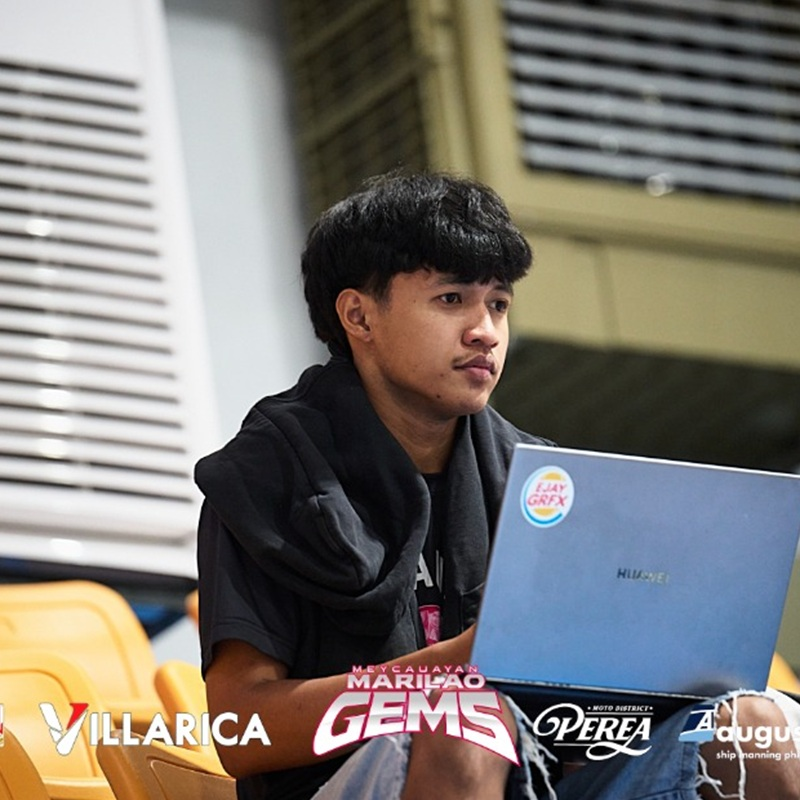
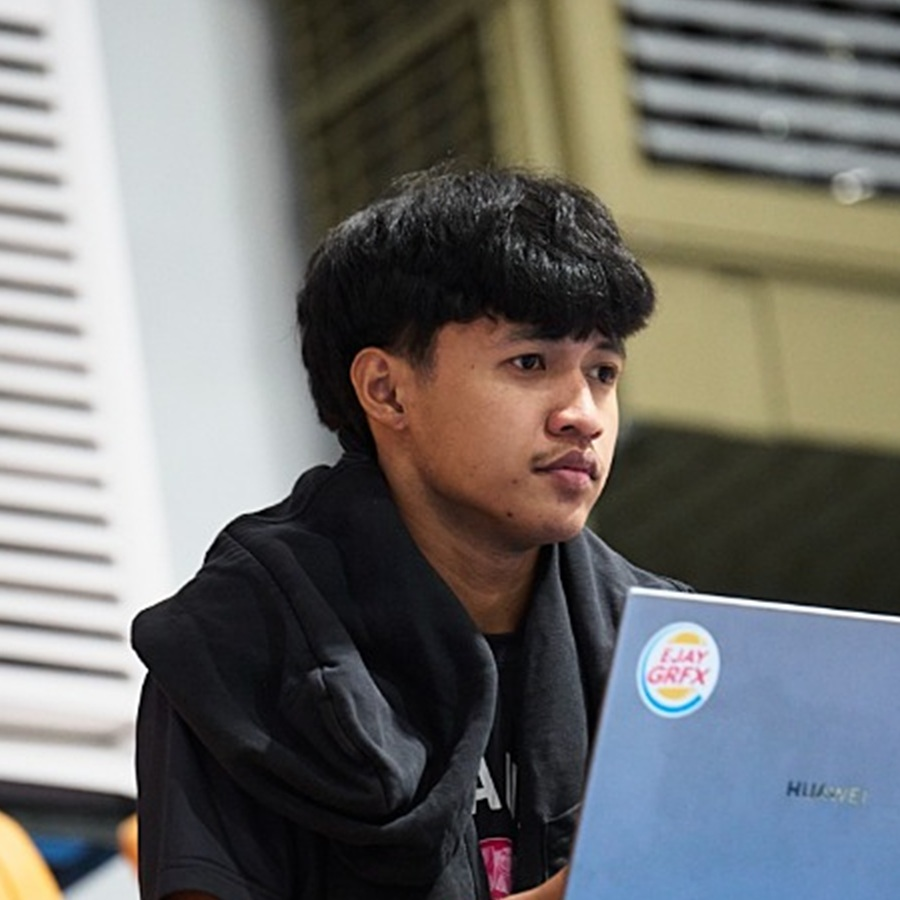
Add vertical timeline line in experience, update role to Graphic Designer / Social Media Manager, and scale profile picture

diff --git a/style.css b/style.css
@@ -377,37 +377,79 @@ button {
 
 
 /* =========================================================
-   EXPERIENCE
+   EXPERIENCE (VERTICAL TIMELINE)
 ========================================================= */
 
 .experience-list {
-    border-top: 1px solid var(--border);
+    position: relative;
+    padding-top: 15px;
 }
 
 .experience-item {
     display: grid;
-    grid-template-columns: 220px 1fr;
+    grid-template-columns: 200px 50px 1fr;
+    position: relative;
+    padding-bottom: 60px;
+}
 
-    padding: 45px 0;
-
-    border-bottom: 1px solid var(--border);
+.experience-item:last-child {
+    padding-bottom: 20px;
 }
 
 .experience-date {
     color: var(--green);
     font-size: 11px;
     font-weight: 800;
-    letter-spacing: 1px;
+    letter-spacing: 2px;
+    padding-top: 10px;
+}
+
+.experience-timeline {
+    position: relative;
+    display: flex;
+    flex-direction: column;
+    align-items: center;
+}
+
+.timeline-dot {
+    width: 12px;
+    height: 12px;
+    border-radius: 50%;
+    background: var(--green);
+    box-shadow: 0 0 12px var(--green), 0 0 25px rgba(183, 255, 0, 0.4);
+    margin-top: 12px;
+    flex-shrink: 0;
+    z-index: 2;
+    transition: transform 0.3s cubic-bezier(0.34, 1.56, 0.64, 1), box-shadow 0.3s;
+}
+
+.experience-item:hover .timeline-dot {
+    transform: scale(1.35);
+    box-shadow: 0 0 18px var(--green), 0 0 35px rgba(183, 255, 0, 0.6);
+}
+
+.timeline-line {
+    width: 2px;
+    flex: 1;
+    background: var(--border);
+    margin-top: 10px;
+}
+
+.experience-item:last-child .timeline-line {
+    background: linear-gradient(to bottom, var(--border), transparent);
 }
 
 .experience-info h3 {
     font-family: "Anton", sans-serif;
     font-size: 40px;
+    line-height: 1;
 }
 
 .experience-info h4 {
     color: var(--green);
-    margin: 5px 0;
+    margin: 8px 0;
+    font-size: 16px;
+    font-weight: 600;
 }
 
 .experience-info p {
@@ -1260,8 +1302,21 @@ body.light .stat span {
 }
 
 /* Experience Section */
-body.light .experience-item {
-    border-color: rgba(15, 23, 42, 0.08);
+body.light .timeline-dot {
+    background: #15803d;
+    box-shadow: 0 0 0 4px rgba(21, 128, 61, 0.15), 0 2px 8px rgba(21, 128, 61, 0.25);
+}
+
+body.light .experience-item:hover .timeline-dot {
+    box-shadow: 0 0 0 6px rgba(21, 128, 61, 0.22), 0 4px 15px rgba(21, 128, 61, 0.35);
+}
+
+body.light .timeline-line {
+    background: rgba(15, 23, 42, 0.12);
+}
+
+body.light .experience-item:last-child .timeline-line {
+    background: linear-gradient(to bottom, rgba(15, 23, 42, 0.12), transparent);
 }
 
 body.light .experience-date {
@@ -1536,9 +1591,33 @@ body.light footer a:hover {
     }
 
     .experience-item {
-        grid-template-columns: 1fr;
+        grid-template-columns: 30px 1fr;
+        gap: 8px 18px;
+        padding-bottom: 45px;
+    }
 
-        gap: 15px;
+    .experience-timeline {
+        grid-column: 1;
+        grid-row: 1 / span 2;
+    }
+
+    .experience-date {
+        grid-column: 2;
+        grid-row: 1;
+        padding-top: 0;
+    }
+
+    .experience-info {
+        grid-column: 2;
+        grid-row: 2;
+    }
+
+    .timeline-dot {
+        margin-top: 3px;
+    }
+
+    .experience-info h3 {
+        font-size: 32px;
     }
 
     .modal-container {

diff --git a/index.html b/index.html
@@ -182,10 +182,15 @@
                     APR 2026 — PRESENT
                 </div>
 
+                <div class="experience-timeline">
+                    <span class="timeline-dot"></span>
+                    <span class="timeline-line"></span>
+                </div>
+
                 <div class="experience-info">
 
                     <h3>
-                        Graphic Designer
+                        Graphic Designer / Social Media Manager
                     </h3>
 
                     <h4>
@@ -212,6 +217,11 @@
 
                 <div class="experience-date">
                     SCHOOL ORG
+                </div>
+
+                <div class="experience-timeline">
+                    <span class="timeline-dot"></span>
+                    <span class="timeline-line"></span>
                 </div>
 
                 <div class="experience-info">
